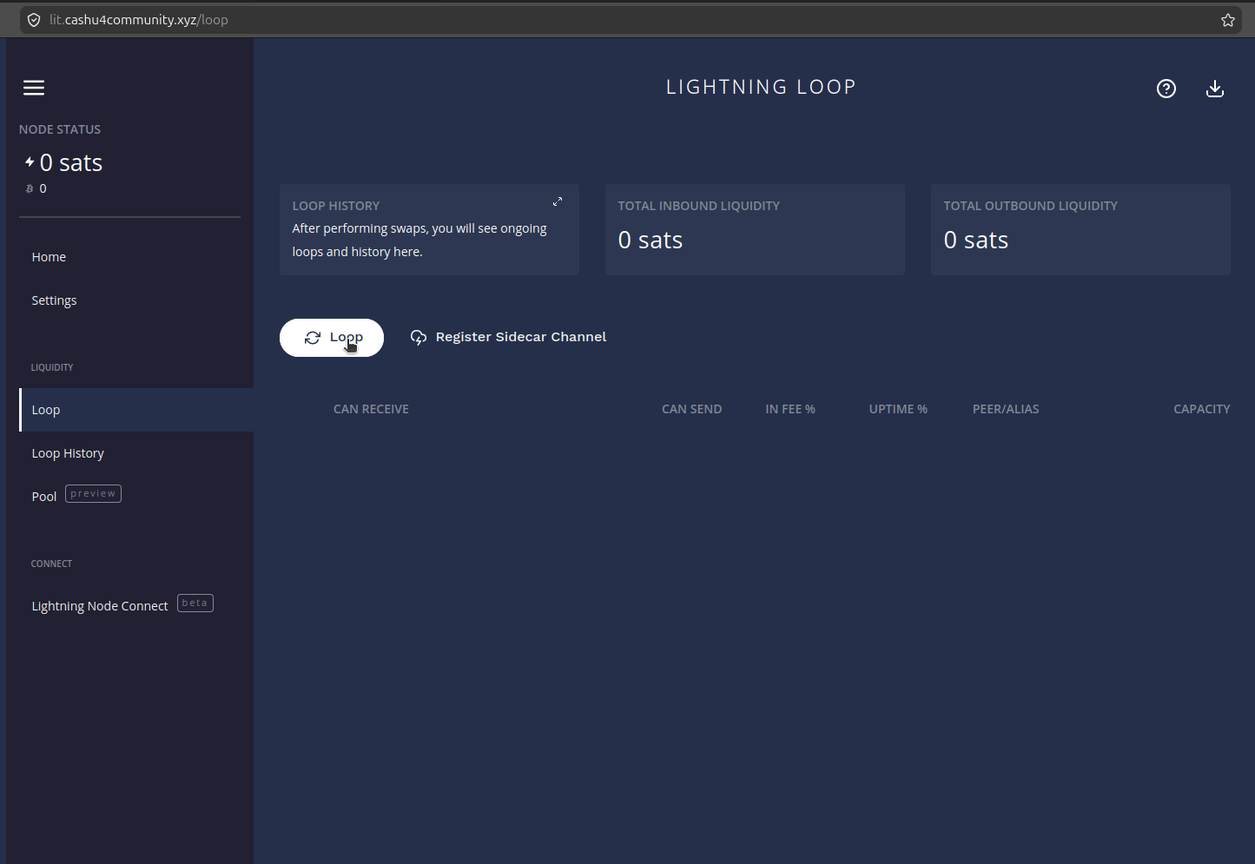
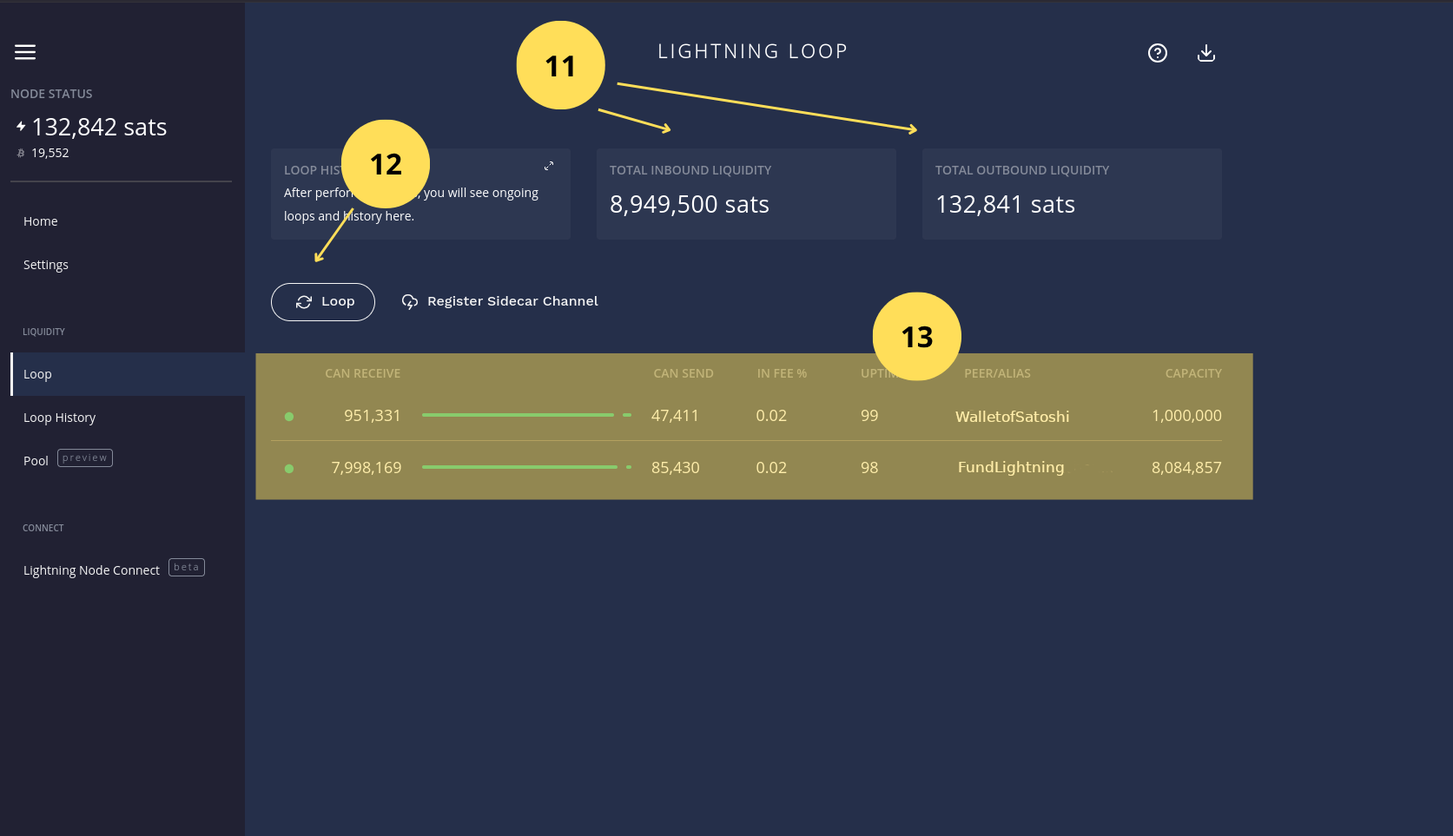
Refresh Lightning Terminal spanish docs

diff --git a/tutorials/lightning-terminal_es.html b/tutorials/lightning-terminal_es.html
@@ -25,7 +25,7 @@
                     <li><a href="../index.html#problem" class="nav-link" data-lang-es="Problemas" data-lang-en="Problems">Problemas</a></li>
                     <li><a href="../index.html#solution" class="nav-link" data-lang-es="Infraestructura" data-lang-en="Infrastructure">Infraestructura</a></li>
                     <li><a href="../index.html#impact" class="nav-link" data-lang-es="Impacto" data-lang-en="Impact">Impacto</a></li>
-                    <li><a href "../index.html#communities" class="nav-link" data-lang-es="Comunidades" data-lang-en="Communities">Comunidades</a></li>
+                    <li><a href="../index.html#communities" class="nav-link" data-lang-es="Comunidades" data-lang-en="Communities">Comunidades</a></li>
                     <li><a href="../index.html#timeline" class="nav-link" data-lang-es="Hoja de Ruta" data-lang-en="Roadmap">Hoja de Ruta</a></li>
                     <li><a href="../index.html#faq" class="nav-link" data-lang-es="FAQ" data-lang-en="FAQ">FAQ</a></li>
                     <li><a href="../tutorials_es.html" class="nav-link" data-lang-es="Tutoriales" data-lang-en="Tutorials">Tutoriales</a></li>
@@ -65,117 +65,153 @@
         <section class="tutorial-content">
             <div class="container">
 
-                <p>Lightning Terminal es una interfaz gráfica y herramienta de gestión para la red Lightning Network de Bitcoin. Desarrollada por Lightning Labs, permite a los nodos operar canales de pago de forma más eficiente mediante funciones avanzadas como <strong>pool</strong> (mercado de liquidez), <strong>loop</strong> (intercambio on/off-chain) y <strong>faraday</strong> (análisis de riesgos). Facilita la compra y venta de liquidez entrante, la gestión de canales y la obtención de recomendaciones para mejorar la rentabilidad del nodo. Es ideal para usuarios que desean participar activamente en Lightning sin manejar comandos complejos en terminal.</p>
+                <p>Lightning Terminal es una interfaz gráfica y herramienta de gestión diseñada para la red Lightning Network de Bitcoin. Desarrollada por Lightning Labs, permite a los operadores de nodos gestionar canales de pago de forma más eficiente gracias a funciones avanzadas como Pool (mercado de liquidez), Loop (intercambio entre cadena y fuera de cadena) y Faraday (análisis de riesgos y rendimiento). Con esta herramienta, es posible comprar y vender liquidez entrante, optimizar la gestión de canales y recibir recomendaciones para maximizar la rentabilidad del nodo. Es la opción ideal para quienes desean participar activamente en Lightning Network sin necesidad de utilizar comandos complejos en la terminal.</p>
 
-                <p>Ahora bien conociendo que es LIT accedemos a la web <code>https://lit.cashu4community.xyz</code></p>
-
-                <img src="img/lit-login-page.png" alt="Lightning Terminal Login">
-
-                <p>Aquí accederemos con la contraseña que creamos en la sección Primeros Pasos</p>
+                <h3>4.1 Funcionalidades clave de Lightning Terminal</h3>
+                <p>Comenzamos accediendo a la interfaz de Lightning Terminal (de ahora en lo adelante LIT) mediante la siguiente dirección <code>https://lit.cashu4cscommunity.xyz</code>.</p>
 
                 <div class="tutorial-tip">
-                    Puede encontrar la contraseña en el archivo <code>lit.conf</code>, exactamente en parámetro de configuración <code>uipassword</code> ubicado en <code>app-data/lit/</code>
+                    <strong>Nota:</strong> Recuerda que la dirección de acceso al servicio LIT se configuró en el tutorial Nginx Proxy Manager.
                 </div>
 
-                <h2>Página de Inicio</h2>
-                <p>Lo primero que veremos es la pagina de inicio, que nos muestra vario opciones para conectarnos directo al nodo y enlace al canal de YouTube.</p>
-                <img src="img/lit-home-page.png" alt="Lightning Terminal Home">
-
-                <h2>Página de Ajustes (Settings)</h2>
-                <p>En los ajustes podemos realizar varias acciones:</p>
-                <img src="img/lit-settings.png" alt="Lightning Terminal Settings">
+                <p><em>Imagen 1: Página de logueo LIT.</em></p>
+                <img src="img/lit-login-page.png" alt="Login LIT">
 
                 <ol>
-                    <li>Cambiar la unidad de Bitcoin (Satoshis, Bits y Bitcoin)</li>
-                    <li>Selecciona modo en que van a funcionar los canales (Optimizados para recibir, enviar o enrutar)</li>
-                    <li>Cambiar los exploradores (mempool.space para bitcoin onchain y terminal.lightning.engineering para lightning)</li>
-                    <li>Muestra la clave pública del nodo</li>
-                    <li>Alias</li>
-                    <li>Muestra el UrI del nodo</li>
+                    <li>Introducimos la contraseña generada en el tutorial de <code>Primeros Pasos</code> y que se encuentra en el archivo <code>app-data/lit/lit.conf</code> parámetro <code>uipassword</code>.</li>
+                    <li>Hacemos clic en el botón <code>Submit</code> para acceder.</li>
                 </ol>
 
-                <div class="tutorial-tip">
-                    El UrI del nodo esta compuesto por la clave pública del nodo @ ip pública : puerto 9735. Si está habilitado el servicio Tor clave pública @ direccion onion : puerto 9735. Este datos nos servirá para abrir canales.
-                </div>
+                <h3>Inicio</h3>
+                <p><em>Imagen 2: Página de Inicio.</em></p>
+                <img src="img/lit-home-page.png" alt="Página de Inicio">
 
-                <h2>Loop</h2>
-                <p>Loop es un servicio no custodial ofrecido por Lightning Labs que actúa como un puente bidireccional (on/off-ramp) entre la red Lightning y la blockchain de Bitcoin. Su función principal es permitir a los usuarios mover fondos de un lado a otro sin necesidad de abrir o cerrar canales, resolviendo así los problemas de liquidez en la red.</p>
+                <ol start="3">
+                    <li>Saldo del nodo Bitcoin On-chain / Lightning.</li>
+                    <li>Acceso rápido al servicio Lightning Terminal Service.</li>
+                    <li>Acceso al canal de YouTube de Lightning Labs.</li>
+                </ol>
 
-                <p>Las dos operaciones principales son:</p>
+                <h3>Ajustes</h3>
+                <p><em>Imagen 3: Página de Ajustes.</em></p>
+                <img src="img/lit-setting-page.png" alt="Página de Ajustes">
+
+                <ol start="6">
+                    <li>Selección de la Unidad de Bitcoin (BTC, Bits, Sats).</li>
+                    <li>Establece los mecanismos de optimización de los canales (Recepción, Envío o Enrutamiento).</li>
+                    <li>Exploradores de bloque.</li>
+                    <li>Clave pública y dirección URI del nodo útil para abrir canales o comprar liquidez.</li>
+                    <li>Alias del nodo.</li>
+                </ol>
+
+                <h3>Lightning Loop</h3>
+                <p><strong>Loop</strong> es un servicio no custodial ofrecido por Lightning Labs que actúa como un puente bidireccional (on/off-ramp) entre la red Lightning y la blockchain de Bitcoin. Su función principal es permitir a los usuarios mover fondos de un lado a otro sin necesidad de abrir o cerrar canales, resolviendo así los problemas de liquidez en la red.</p>
+
+                <p><em>Imagen 4: Lightning Pool.</em></p>
+                <img src="img/lit-loop-page.png" alt="Lightning Pool">
+
+                <ol start="11">
+                    <li>Capacidad de Entrada / Salida.</li>
+                    <li>Acceso al servicio Loop.</li>
+                    <li>Canales activos en el nodo.</li>
+                </ol>
+
+                <p>Las siguientes imágenes muestran el flujo para realizar una operación de Loop In es decir añadir liquidez desde el saldo onchain de la billetera del nodo.</p>
+
+                <p><em>Imagen 5: Lightning Loop In.</em></p>
+                <img src="img/lit-loop-in-action.png" alt="Loop In">
+
+                <p><em>Imagen 6: Selección del monto on chain a añadir en el canal seleccionado.</em></p>
+                <img src="img/lit-loop-in-fixed-fund.png" alt="Loop In Fixed Fund">
+
+                <p><em>Imagen 7: Confirmar operación de Loop In tras calcular el fee.</em></p>
+                <img src="img/lit-loop-in-confirm.png" alt="Loop In Confirm">
 
                 <ul>
-                    <li><strong>Loop Out</strong>: Convierte fondos de la red Lightning (off-chain) a Bitcoin en la cadena principal (on-chain). Es útil para comerciantes que reciben muchos pagos y necesitan enviar esos fondos a una wallet fría o un exchange, liberando capacidad para seguir recibiendo.</li>
-                    <li><strong>Loop In</strong>: Convierte Bitcoin de la cadena principal a la red Lightning. Sirve para "recargar" un canal de Lightning que se ha quedado sin fondos después de hacer muchos pagos.</li>
+                    <li><strong>Loop In</strong> (para recibir más liquidez entrante en un canal): necesitas saldo en tu billetera on-chain.</li>
+                    <li><strong>Loop Out</strong> (para enviar fondos de Lightning a la red on-chain): necesitas saldo disponible dentro de un canal de pago.</li>
                 </ul>
 
-                <p>Pueden ver Lightning Loop en acción <a href="https://www.youtube.com/watch?v=kYlfHqQnpVM" target="_blank">ver vídeo en YouTube</a></p>
+                <p>Pueden ver Loop en acción en el siguiente <a href="https://www.youtube.com/watch?v=kYlfHqQnpVM" target="_blank">enlace</a>.</p>
 
-                <div class="tutorial-tip">
-                    <strong>Ventaja clave</strong>: Loop permite rebalancear los canales de forma eficiente, a menudo agrupando múltiples transacciones en una sola operación en cadena para ahorrar en comisiones
-                </div>
-
-                
-
-                <h2>Lightning Node Connect</h2>
+                <h3>Lightning Node Connect</h3>
                 <p>La función Lightning Node Connect (LNC) en Lightning Terminal es un mecanismo que te permite conectarte a tu nodo Lightning de forma remota, segura y privada a través de un navegador web o una aplicación móvil, sin necesidad de configurar redirección de puertos o usar Tor.</p>
 
                 <p>Piensa en ello como un "acceso remoto" diseñado específicamente para nodos Lightning, que soluciona problemas de conectividad como el NAT (traducción de direcciones de red) o los firewalls que suelen bloquear las conexiones entrantes.</p>
 
-                <h3>¿Qué es y para qué sirve exactamente?</h3>
+                <p><em>Imagen 8: Página de Lightning Node Connect.</em></p>
+                <img src="img/lit-node-connection.png" alt="Lightning Node Connect">
 
-                <ul>
-                    <li><strong>Conexión Sencilla</strong>: Te permite acceder a tu nodo desde la interfaz web de Lightning Terminal (terminal.lightning.engineering) o desde billeteras móviles como ZEUS, sin configurar direcciones IP o certificados complicados.</li>
-                    <li><strong>Alta Seguridad</strong>: La conexión es cifrada de extremo a extremo utilizando un método llamado PAKE (intercambio de claves autenticado por contraseña). Esto significa que ni el servidor proxy de Lightning Labs ni ningún intermediario pueden ver tu información privada (como saldos o canales); solo ven datos cifrados.</li>
-                    <li><strong>Gestión Remota</strong>: Es la tecnología que hace posible que puedas usar las herramientas de Liquidez de Lightning Terminal (Loop, Pool, Faraday) sin estar en la misma red local que tu nodo.</li>
-                </ul>
-
-                <h3>¿Cómo funciona?</h3>
-                <p>En lugar de que tu navegador se conecte directamente (lo cual es difícil si el nodo está en tu casa detrás de un router), el nodo inicia una conexión saliente hacia un proxy. Tu navegador se conecta al mismo proxy, y LNC une ambos extremos de forma segura.</p>
-
-                <p>Ahora ya tenemos una idea de como funciona Lightning Node Connect vamos a crear una conexión.</p>
-                <img src="img/lit-lnc.png" alt="Lightning Node Connect">
-
-                <ol>
-                    <li>Crea una nueva conexión para el servicio Lightning Node Connect (LNC)</li>
+                <ol start="14">
+                    <li>Hacemos clic para crear una sesión al servicio Lightning Terminal Service.</li>
                 </ol>
 
-                <img src="img/lit-lnc-new-connection.png" alt="LNC New Connection">
+                <p><em>Imagen 9: Creando la nueva sesión de Lightning Terminal Service.</em></p>
+                <img src="img/lit-lts-new-sesion-parameters.png" alt="Nueva Sesión LTS">
 
-                <ol>
-                    <li>Definimos el nombre de la conexión. Ej TEST</li>
-                    <li>Definimos los permisos de la conexión (Admin, Solo Lectura o Customizado)</li>
-                    <li>Añadimos la conexión</li>
+                <ol start="15">
+                    <li>Establecemos el nombre de la sesión.</li>
+                    <li>Seleccionamos los privilegios <code>Admin</code> entre los privilegios disponibles (Admin, Solo lectura y Personalizado).</li>
+                    <li>Hacemos clic en <code>Submit</code> para crear la sesión.</li>
                 </ol>
 
-                <img src="img/lit-lnc-connection-register.png" alt="LNC Connection Register">
+                <p><em>Imagen 10: Opciones de la nueva sesión Lightning Terminal Service.</em></p>
+                <img src="img/lit-lnc-connection-record.png" alt="Opciones Sesión LTS">
 
-                <ol>
-                    <li>Redirecciona al servicio Lightning Terminal Services incluyendo la frase de 12 palabras</li>
-                    <li>Copia la frase de 12 palabras</li>
-                    <li>Muestra un QR con los datos de conexión, sirve para emparejarnos con la aplicación Zeus</li>
-                    <li>Elimina la conexión</li>
+                <ol start="18">
+                    <li>Si hacemos clic nos redirecciona a la web de Lightning Terminal Services para introducir la frase de 12 palabras que establece la conexión con el nodo.</li>
+                    <li>Si hacemos clic copiamos las 12 palabras.</li>
+                    <li>Muestra un QR útil si queremos conectarnos al nodo desde <a href="https://play.google.com/store/apps/details?id=app.zeusln.zeus&hl=es_CL" target="_blank">Zeus</a> o <a href="https://albyhub.com/" target="_blank">Alby Hub</a>.</li>
                 </ol>
 
-                <img src="img/lit-services-pairing-phrase.png" alt="LNC Services Pairing Phrase">
+                <p>Pueden ver el siguiente video sobre LIT <a href="https://www.youtube.com/watch?v=G1rv9dZQO5o" target="_blank">aquí</a>.</p>
 
-                <p>La imagen anterior muestra la pantalla del servicio LNC al cual se puede acceder desde el paso anterior. Al hacer clic en el boton connect no lleva a una pagina donde definimos una contraseña.</p>
+                <h3>4.2 Acceso a Lightning Terminal Service</h3>
+                <p>Llegado a este punto podemos acceder a este servicio desde el paso anterior punto 18, o accediendo directamente desde <a href="https://terminal.lightning.engineering/dashboard" target="_blank">aquí</a>.</p>
 
-                <img src="img/lit-services-set-passwd.png" alt="LNC Services Set Password">
-
-                <p>Luego confirmamos el password.</p>
-
-                <img src="img/lit-services-confirm-passwd.png" alt="LNC Services Confirm Password">
-
-                <p>Confirmado el password se carga el dashboard del nodo.</p>
-
-                <img src="img/lit-services-dashboard.png" alt="LNC Services Dashboard">
+                <p><em>Imagen 11: Página Principal de Lightning Terminal Services.</em></p>
+                <img src="img/lit-services-home.png" alt="Lightning Terminal Services Home">
 
                 <ol>
-                    <li>Desde aquí se puede acceder al explorador Lightning útil si se quiere buscar nodos con buena reputación, la función autopilot nos permite automatizar tareas como cambio de fees según el estado de los canales, Loop lo vimos anteriormente desde aqui podemos realizar el rebalanceo de canales mediante esta función y Assets esta relacionado con la emision de activos sobre lightning algo que aun esta en desarrollo.</li>
-                    <li>Aqui podremos envia y recibir tanto On - chain y Lightning, además de poder abrir canales.</li>
-                    <li>Se muestra información estadistica del funcionamiento del nodo, las ganacias por enrutamiento estado de lconocer os canales, entre otros datos.</li>
-                    <li>En este menu podemos ver la liquides de que dispone, versión del nodo, historial, entre otras informaciones.</li>
+                    <li>Hacemos clic en Conectar a mi nodo.</li>
                 </ol>
+
+                <p><em>Imagen 12: Conectar al nodo mediante 12 palabras generadas por LIT.</em></p>
+                <img src="img/lit-services-pairing-phrase.png" alt="Pairing Phrase">
+
+                <ol start="2">
+                    <li>Pegamos la frase de 12 palabras obtenidas en LIT al crear la nueva sesión.</li>
+                    <li>Hacemos clic en Conectar.</li>
+                </ol>
+
+                <p><em>Imagen 13: Estableciendo la contraseña de la conexión.</em></p>
+                <img src="img/lit-services-set-passwd.png" alt="Set Password">
+
+                <ol start="4">
+                    <li>Insertamos una contraseña para la sesión (no es la contraseña que usamos para LIT son diferentes servicios).</li>
+                    <li>Hacemos clic en Siguiente.</li>
+                </ol>
+
+                <p><em>Imagen 14: Confirmamos la contraseña de la sesión.</em></p>
+                <img src="img/lit-services-confirm-passwd.png" alt="Confirm Password">
+
+                <ol start="6">
+                    <li>Confirmamos la contraseña de la sesión.</li>
+                    <li>Hacemos clic en el botón Listo.</li>
+                </ol>
+
+                <p><em>Imagen 15: Panel Principal de Lightning Terminal Services.</em></p>
+                <img src="img/lit-services-dashboard.png" alt="LTS Dashboard">
+
+                <ol start="8">
+                    <li>Menú de navegación: permite desplazarnos entre el explorador de la red lightning, Autopilot función que automatiza tareas bajo demanda en el nodo, Loop las mismas funciones que vimos en LIT pero con una interfaz mejorada y Asset para los que quieren emitir tokens en la red lightning.</li>
+                    <li>Botones de acción: permite enviar, recibir tanto en la red lightning como en la onchain, además de abrir canales.</li>
+                    <li>Área de estadísticas del nodo: muestra estadísticas del nodo en un período de tiempo como ganancias y pérdidas por enrutamiento, entre otras cosas.</li>
+                    <li>Información de enrutamiento y canales: podemos interactuar con los enrutamientos y los canales, en este último podemos obtener información de ellos, cambiar los fees, cerrar y forzar cierre si está offline por mucho tiempo.</li>
+                    <li>Menú de información del nodo: muestra el saldo lightning y onchain, versión del nodo, historial de operaciones entre otras opciones.</li>
+                </ol>
+
+                <p>Si quiere profundizar más sobre estas herramientas visite el siguiente <a href="https://www.youtube.com/@LightningLabs/videos" target="_blank">enlace</a>.</p>
 
                 <div class="tutorial-nav">
                     <a href="nginx-proxy-manager_es.html" class="nav-prev">

diff --git a/tutorials/lit.md b/tutorials/lit.md
@@ -1,0 +1,144 @@
+## 4 Gestiona tu nodo con Lightning Terminal (LIT)
+
+
+Lightning Terminal es una interfaz gráfica y herramienta de gestión diseñada para la red Lightning Network de Bitcoin. Desarrollada por Lightning Labs, permite a los operadores de nodos gestionar canales de pago de forma más eficiente gracias a funciones avanzadas como Pool (mercado de liquidez), Loop (intercambio entre cadena y fuera de cadena) y Faraday (análisis de riesgos y rendimiento). Con esta herramienta, es posible comprar y vender liquidez entrante, optimizar la gestión de canales y recibir recomendaciones para maximizar la rentabilidad del nodo. Es la opción ideal para quienes desean participar activamente en Lightning Network sin necesidad de utilizar comandos complejos en la terminal.
+
+### 4.1 Funcionalidades clave de Lightning Terminal.
+
+Comenzamos accediendo a la interfaz de Lightning Terminal (de ahora en lo adelante LIT) mediante la siguiente dirección `https://lit.cashu4cscommunity.xyz`.
+ 
+>**Nota:** Recuerda que la dirección de acceso al servicio LIT se configuró en el tutorial Nginx Proxy Manager.
+
+*Imagen 1: Página de logueo LIT.*
+
+![](img/lit-login-page.png)
+
+1. Introducimos la contraseña generada en el tutorial de `Primeros Pasos` y que se encuentra en el archivo `app-data/lit/lit.conf` parámetro `uipassword`.
+2. Hacemos clic en el botón `Submit` para acceder.
+
+### Inicio.
+
+*Imagen 2: Página de Inicio.*
+
+![](img/lit-home-page.png)
+
+3. Saldo del nodo Bitcoin On-chain / Lightning.
+4. Acceso rápido al servicio Lightning Terminal Service.
+5. Acceso al canal de YouTube de Lightning Labs.
+
+### Ajustes.
+
+*Imagen 3: Página de Ajustes.*
+
+![](img/lit-setting-page.png)
+
+6. Selección de la Unidad de Bitcoin (BTC, Bits, Sats).
+7. Establece los mecanismos de optimización de los canales (Recepción, Envío o Enrutamiento).
+8. Exploradores de bloque.
+9. Clave pública y dirección URI del nodo útil para abrir canales o comprar liquidez.
+10. Alias del nodo.
+
+### Lightning Loop.
+
+**Loop** es un servicio no custodial ofrecido por Lightning Labs que actúa como un puente bidireccional (on/off-ramp) entre la red Lightning y la blockchain de Bitcoin. Su función principal es permitir a los usuarios mover fondos de un lado a otro sin necesidad de abrir o cerrar canales, resolviendo así los problemas de liquidez en la red.
+
+*Imagen 4: Lightning Pool.*
+
+![](img/lit-loop-page.png)
+
+11. Capacidad de Entrada / Salida.
+12. Acceso al servicio Loop.
+13. Canales activos en el nodo.
+
+Las siguientes imágenes muestran el flujo para realizar una operación de Loop In es decir añadir liquidez desde el saldo onchain de la billetera del nodo.
+
+*Imagen 5: Lightning Loop In.*
+
+![](img/lit-loop-in-action.png)
+
+*Imagen 6: Selección del monto on chain a añadir en el canal seleccionado.*
+
+![](img/lit-loop-in-fixed-fund.png)
+
+*Imagen 7: Confirmar operación de Loop In tras calcular el fee.*
+
+![](img/lit-loop-in-confirm.png)
+
+>- **Loop In** (para recibir más liquidez entrante en un canal): necesitas saldo en tu billetera on-chain.
+>- **Loop Out** (para enviar fondos de Lightning a la red on-chain): necesitas saldo disponible dentro de un canal de pago. onchain.
+
+Pueden ver Loop en accion en el siguiente [enlace](https://www.youtube.com/watch?v=kYlfHqQnpVM).
+
+### Lightning Node Connect.
+
+La función Lightning Node Connect (LNC) en Lightning Terminal es un mecanismo que te permite conectarte a tu nodo Lightning de forma remota, segura y privada a través de un navegador web o una aplicación móvil, sin necesidad de configurar redirección de puertos o usar Tor.
+
+Piensa en ello como un "acceso remoto" diseñado específicamente para nodos Lightning, que soluciona problemas de conectividad como el NAT (traducción de direcciones de red) o los firewalls que suelen bloquear las conexiones entrantes.
+
+*Imagen 8: Página de Lightning Node Connect.*
+
+![](img/lit-node-connection.png) 
+
+14. Hacemos clic para crear una sesión al servicio Lightning Terminal Service.
+
+*Imagen 9: Creando la nueva sesión de Lightning Terminal Service.*
+
+![](img/lit-lts-new-sesion-parameters.png)
+
+15. Establecemos el nombre de la sesión.
+16. Seleccionamos los privilegios `Admin` entre los privilegios disponibles (Admin, Solo lectura y Personalizado).
+17. Hacemos clic en `Submit` para crear la sesión.
+
+*Imagen 10: Opciones de la nueva sesión Lightning Terminal Service.*
+
+![](img/lit-lnc-connection-record.png)
+
+18. Si hacemos clic nos redirecciona a la web de Lightning Terminal Services para introducir la frase de 12 palabras que establece la conexión con el nodo.
+19. Si hacemos clic copiamos las 12 palabras.
+20. Muestra un QR útil si queremos conectarnos al nodo desde [Zeus](https://play.google.com/store/apps/details?id=app.zeusln.zeus&hl=es_CL) o [Alby Hub](https://albyhub.com/)
+
+Pueden ver el siguiente video sobre LIT [aquí](https://www.youtube.com/watch?v=G1rv9dZQO5o)
+
+### 4.2 Acceso a Lightning Terminal Service 
+
+Llegado a este punto podemos acceder a este servicio desde el paso anterior punto 18, o accediendo directamente desde [aquí](terminal.lightning.engineering/dashboard).
+
+*Imagen 11: Página Principal de Lightning Terminal Services.*
+
+![](img/lit-services-home.png)
+
+1. Hacemos clic en Conectar a mi nodo.
+
+*Imagen 12: Conectar al nodo mediante 12 palabras generadas por LIT.*
+
+![](img/lit-services-pairing-phrase.png)
+
+2. Pegamos la frase de 12 palabras obtenidas en LIT al crear la nueva sesión.
+3. Hacemos clic en Conectar.
+
+*Imagen 13: Estableciendo la contraseña de la conexión.*
+
+![](img/lit-services-set-passwd.png)
+
+4. Insertamos una contraseña para la sesión (no es la contraseña que usamos para LIT son diferentes servicios).
+5. Hacemos clic en Siguiente.
+
+*Imagen 14: Confirmamos la contraseña de la sesión.*
+
+![](img/lit-services-confirm-passwd.png)
+
+6. Confirmamos la contraseña de la sesión.
+7. Hacemos clic en el botón Listo.
+
+
+*Imagen 15: Panel Principal de Lightning Terminal Services.*
+
+![](img/lit-services-dashboard.png)
+
+8. Menu de navegación: permite desplazarnos entre el explorador de de la red lightning, Autopilot función que automatiza tareas bajo demanda en el nodo, Loop las mismas funciones que vimos en LIT pero con una interfaz mejorada y Asset para los que quieren emitir toquens en la red lightning.
+9. Botones de acción: permite enviar, recibir tanto en la red lightning como en la onchain, además de abrir canales.
+10. Área de estadisticas del nodo: muestra estadísticas del nodo en un período de tiempo como ganancias y perdidas por enrutamiento, entre otras cosas.
+11. Informacion de enrutamiento y canales: podemos interactuar con los enrutamientos y los canales, en este último podemos obtener informacion de ellos, cambiar los fees, cerrar y forzar cieere si esta offline por mucho tiempo.
+12. Menu de información del nodo: muestra el saldo lightning y onchain, versión del nodo, historial de operaciones entre otras opciones.
+
+Si quiere profundizar más sobre estas herramientas visite el siguiente [enlace](https://www.youtube.com/@LightningLabs/videos)
